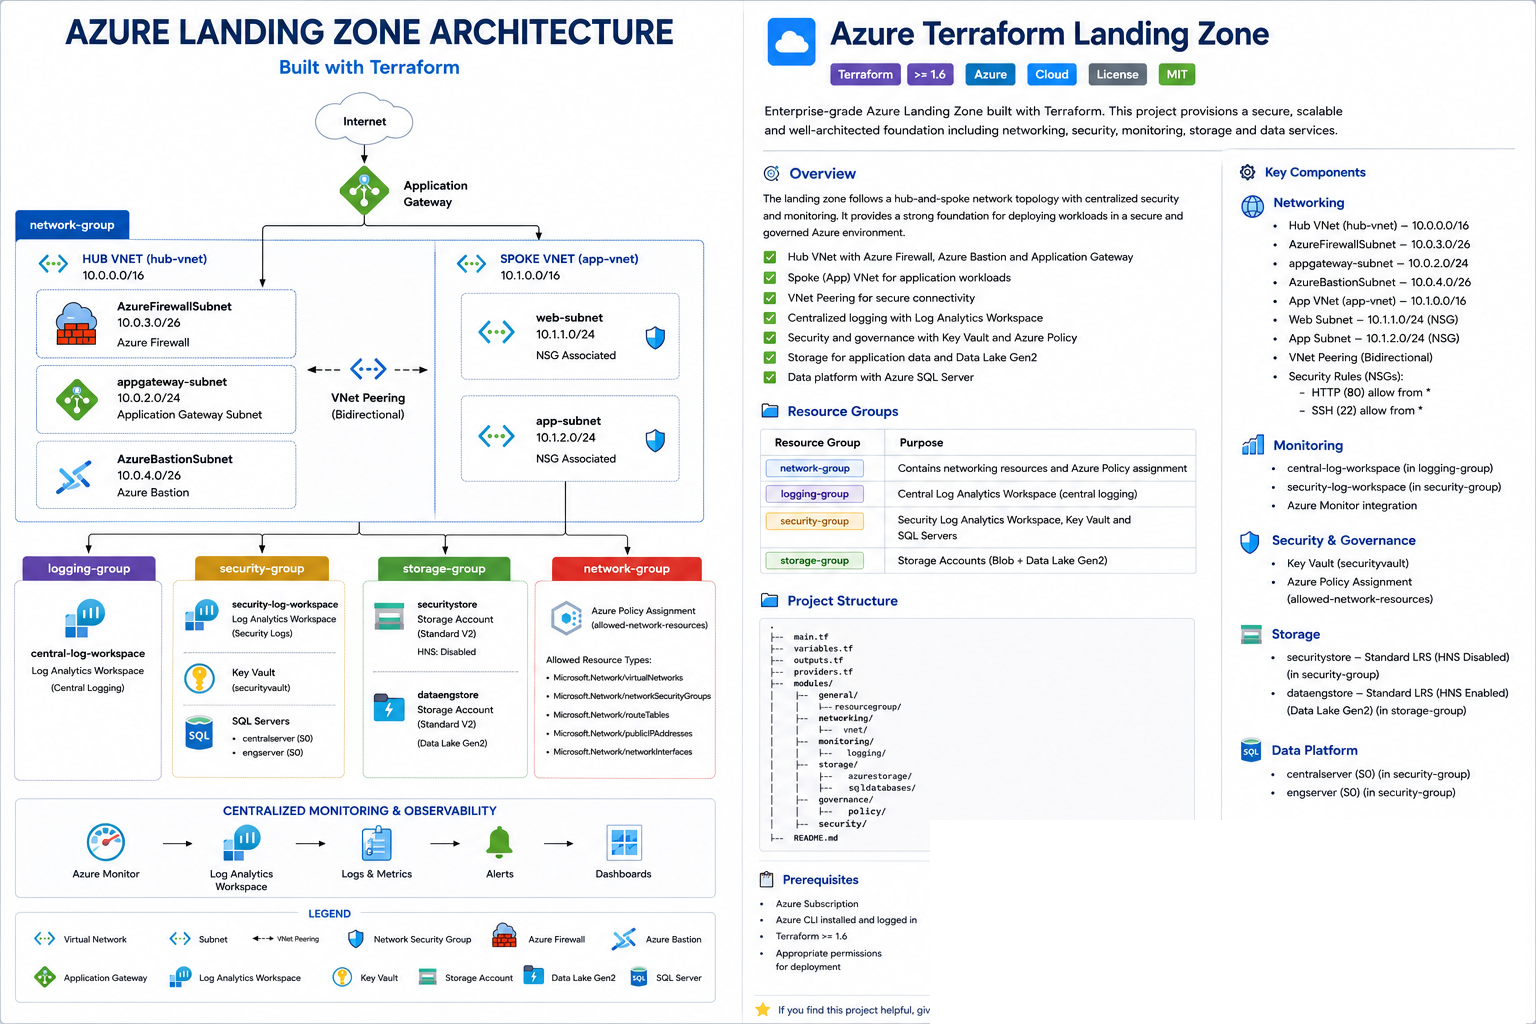
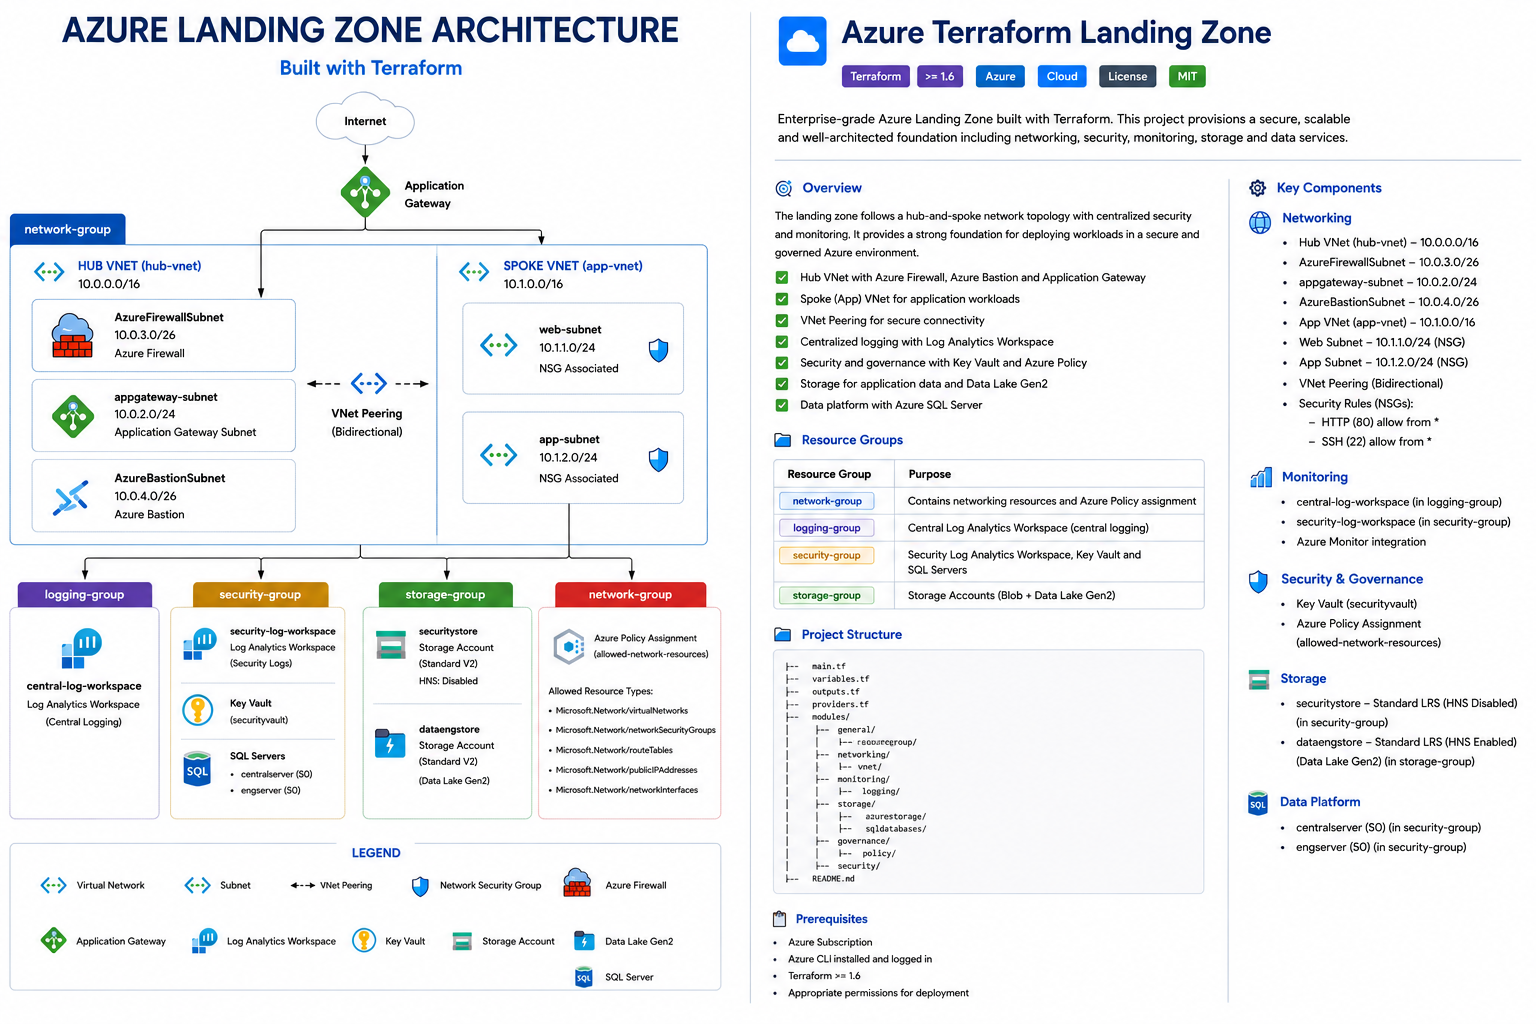
Update architecture diagram and README

Changed region(s): [[0.0, 0.0, 1.0, 1.0], [0.0312, 0.0, 0.4375, 0.125]]

diff --git a/README.md b/README.md
@@ -2,14 +2,18 @@
 
 ![Azure Terraform Landing Zone Architecture](docs/landingzone_diagram_cleaned.png)
 
-## Overview
-This project provisions an Azure landing zone across four dedicated resource groups:
+This project deploys a modular Azure Landing Zone using Terraform with dedicated networking, governance, monitoring, security, storage, and data platform components.
 
-- **network-group** – Virtual networks, subnets, and network governance
-- **logging-group** – Centralized Log Analytics workspace
-- **storage-group** – Data engineering storage resources
-- **security-group** – Security monitoring, Key Vault, Storage Account, and Azure SQL resources
+Key capabilities include:
 
+- Modular Terraform architecture
+- Virtual network segmentation
+- Network Security Groups (NSGs)
+- Azure Policy governance
+- Azure Log Analytics workspaces
+- Azure Key Vault
+- Azure Storage and Data Lake Gen2
+- Azure SQL environments
 ## Networking
 
 ### Hub VNet
